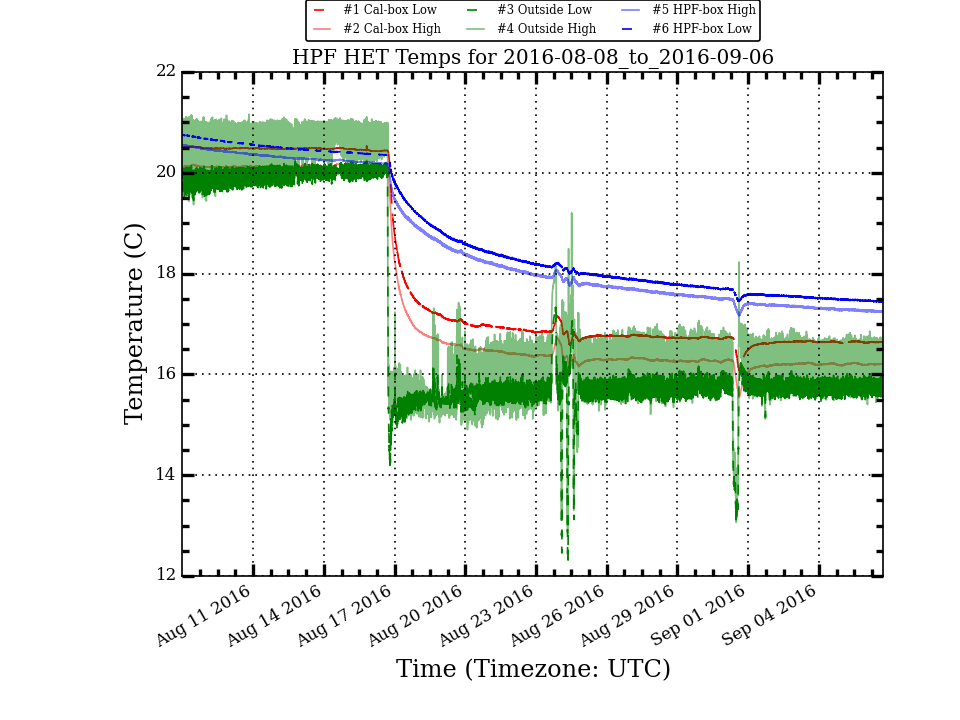
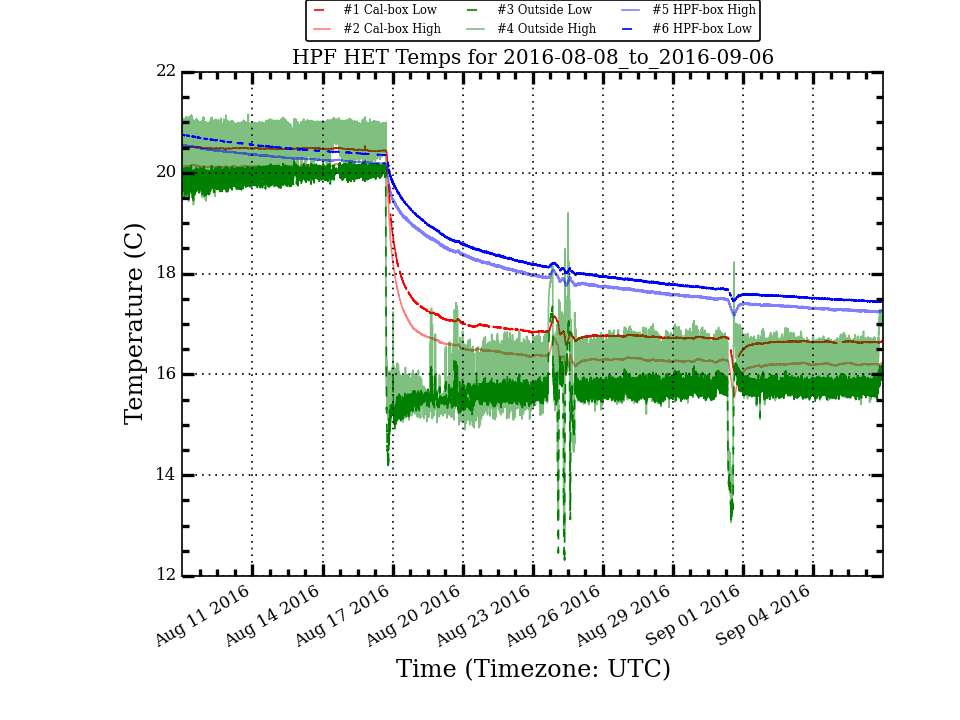
Update HPF Temp Plots

diff --git a/research/hpf_temps/plots/LakeShoreLogTotal_month_stats.html b/research/hpf_temps/plots/LakeShoreLogTotal_month_stats.html
@@ -10,56 +10,56 @@
  </TR>
  <TR>
   <TD>Cal_Low</TD>
-  <TD>17.922</TD>
-  <TD>1.683</TD>
-  <TD>16.881</TD>
+  <TD>17.910</TD>
+  <TD>1.679</TD>
+  <TD>16.868</TD>
   <TD>20.534</TD>
   <TD>16.074</TD>
   <TD>4.460</TD>
  </TR>
  <TR>
   <TD>Cal_High</TD>
-  <TD>17.486</TD>
-  <TD>1.731</TD>
-  <TD>16.393</TD>
+  <TD>17.474</TD>
+  <TD>1.727</TD>
+  <TD>16.387</TD>
   <TD>20.246</TD>
   <TD>15.544</TD>
   <TD>4.702</TD>
  </TR>
  <TR>
   <TD>Out_Low</TD>
-  <TD>16.923</TD>
-  <TD>1.992</TD>
-  <TD>15.805</TD>
+  <TD>16.914</TD>
+  <TD>1.985</TD>
+  <TD>15.807</TD>
   <TD>20.236</TD>
   <TD>12.302</TD>
   <TD>7.934</TD>
  </TR>
  <TR>
   <TD>Out_High</TD>
-  <TD>17.423</TD>
-  <TD>2.132</TD>
-  <TD>16.430</TD>
+  <TD>17.418</TD>
+  <TD>2.123</TD>
+  <TD>16.435</TD>
   <TD>21.163</TD>
   <TD>12.840</TD>
   <TD>8.323</TD>
  </TR>
  <TR>
   <TD>HPF_High</TD>
-  <TD>18.561</TD>
-  <TD>1.227</TD>
-  <TD>18.004</TD>
+  <TD>18.549</TD>
+  <TD>1.228</TD>
+  <TD>17.988</TD>
   <TD>20.548</TD>
   <TD>17.167</TD>
   <TD>3.381</TD>
  </TR>
  <TR>
   <TD>HPF_Low</TD>
-  <TD>18.762</TD>
-  <TD>1.225</TD>
-  <TD>18.202</TD>
+  <TD>18.750</TD>
+  <TD>1.226</TD>
+  <TD>18.192</TD>
   <TD>20.758</TD>
-  <TD>17.436</TD>
-  <TD>3.322</TD>
+  <TD>17.431</TD>
+  <TD>3.327</TD>
  </TR>
 </TABLE>

diff --git a/research/hpf_temps/plots/LakeShoreLogTotal_week_stats.html b/research/hpf_temps/plots/LakeShoreLogTotal_week_stats.html
@@ -10,8 +10,8 @@
  </TR>
  <TR>
   <TD>Cal_Low</TD>
-  <TD>16.614</TD>
-  <TD>0.104</TD>
+  <TD>16.615</TD>
+  <TD>0.102</TD>
   <TD>16.641</TD>
   <TD>16.747</TD>
   <TD>16.074</TD>
@@ -19,8 +19,8 @@
  </TR>
  <TR>
   <TD>Cal_High</TD>
-  <TD>16.167</TD>
-  <TD>0.118</TD>
+  <TD>16.169</TD>
+  <TD>0.116</TD>
   <TD>16.199</TD>
   <TD>16.299</TD>
   <TD>15.544</TD>
@@ -28,38 +28,38 @@
  </TR>
  <TR>
   <TD>Out_Low</TD>
-  <TD>15.703</TD>
-  <TD>0.415</TD>
-  <TD>15.783</TD>
+  <TD>15.712</TD>
+  <TD>0.411</TD>
+  <TD>15.788</TD>
   <TD>16.224</TD>
   <TD>13.116</TD>
   <TD>3.108</TD>
  </TR>
  <TR>
   <TD>Out_High</TD>
-  <TD>16.209</TD>
-  <TD>0.520</TD>
-  <TD>16.309</TD>
+  <TD>16.234</TD>
+  <TD>0.531</TD>
+  <TD>16.322</TD>
   <TD>18.229</TD>
   <TD>13.065</TD>
   <TD>5.164</TD>
  </TR>
  <TR>
   <TD>HPF_High</TD>
-  <TD>17.333</TD>
-  <TD>0.064</TD>
-  <TD>17.329</TD>
+  <TD>17.330</TD>
+  <TD>0.065</TD>
+  <TD>17.322</TD>
   <TD>17.519</TD>
   <TD>17.167</TD>
   <TD>0.352</TD>
  </TR>
  <TR>
   <TD>HPF_Low</TD>
-  <TD>17.530</TD>
-  <TD>0.059</TD>
-  <TD>17.528</TD>
+  <TD>17.527</TD>
+  <TD>0.060</TD>
+  <TD>17.523</TD>
   <TD>17.713</TD>
-  <TD>17.436</TD>
-  <TD>0.277</TD>
+  <TD>17.431</TD>
+  <TD>0.282</TD>
  </TR>
 </TABLE>
